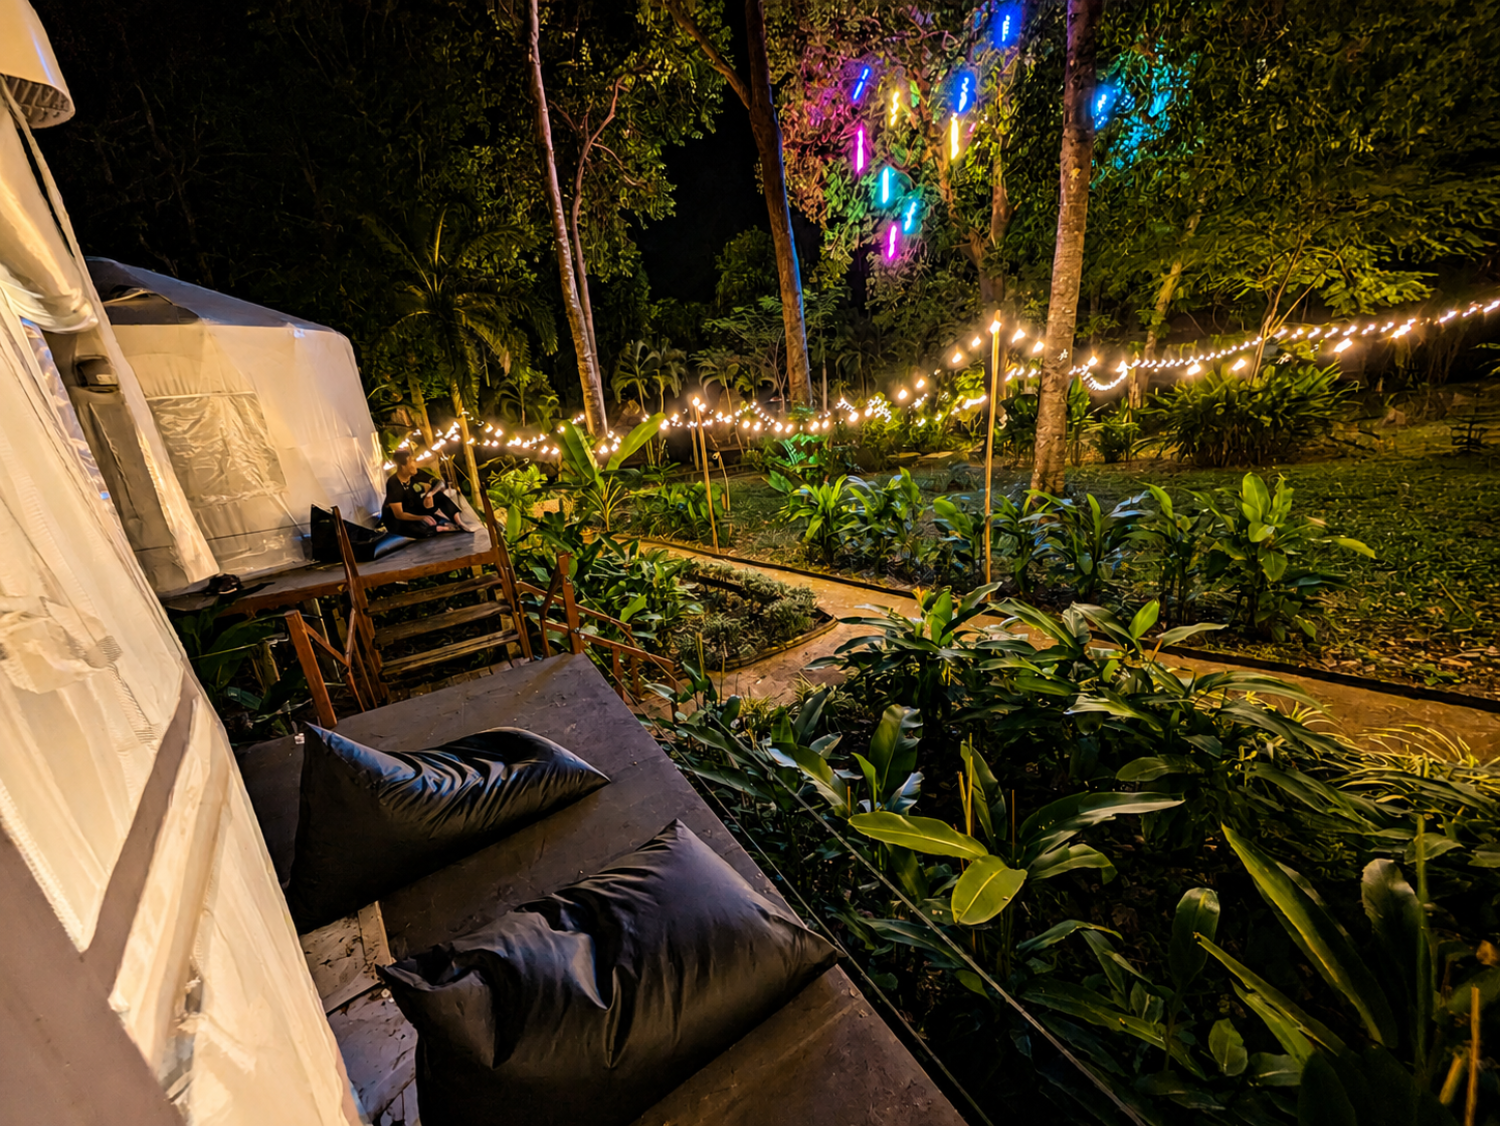
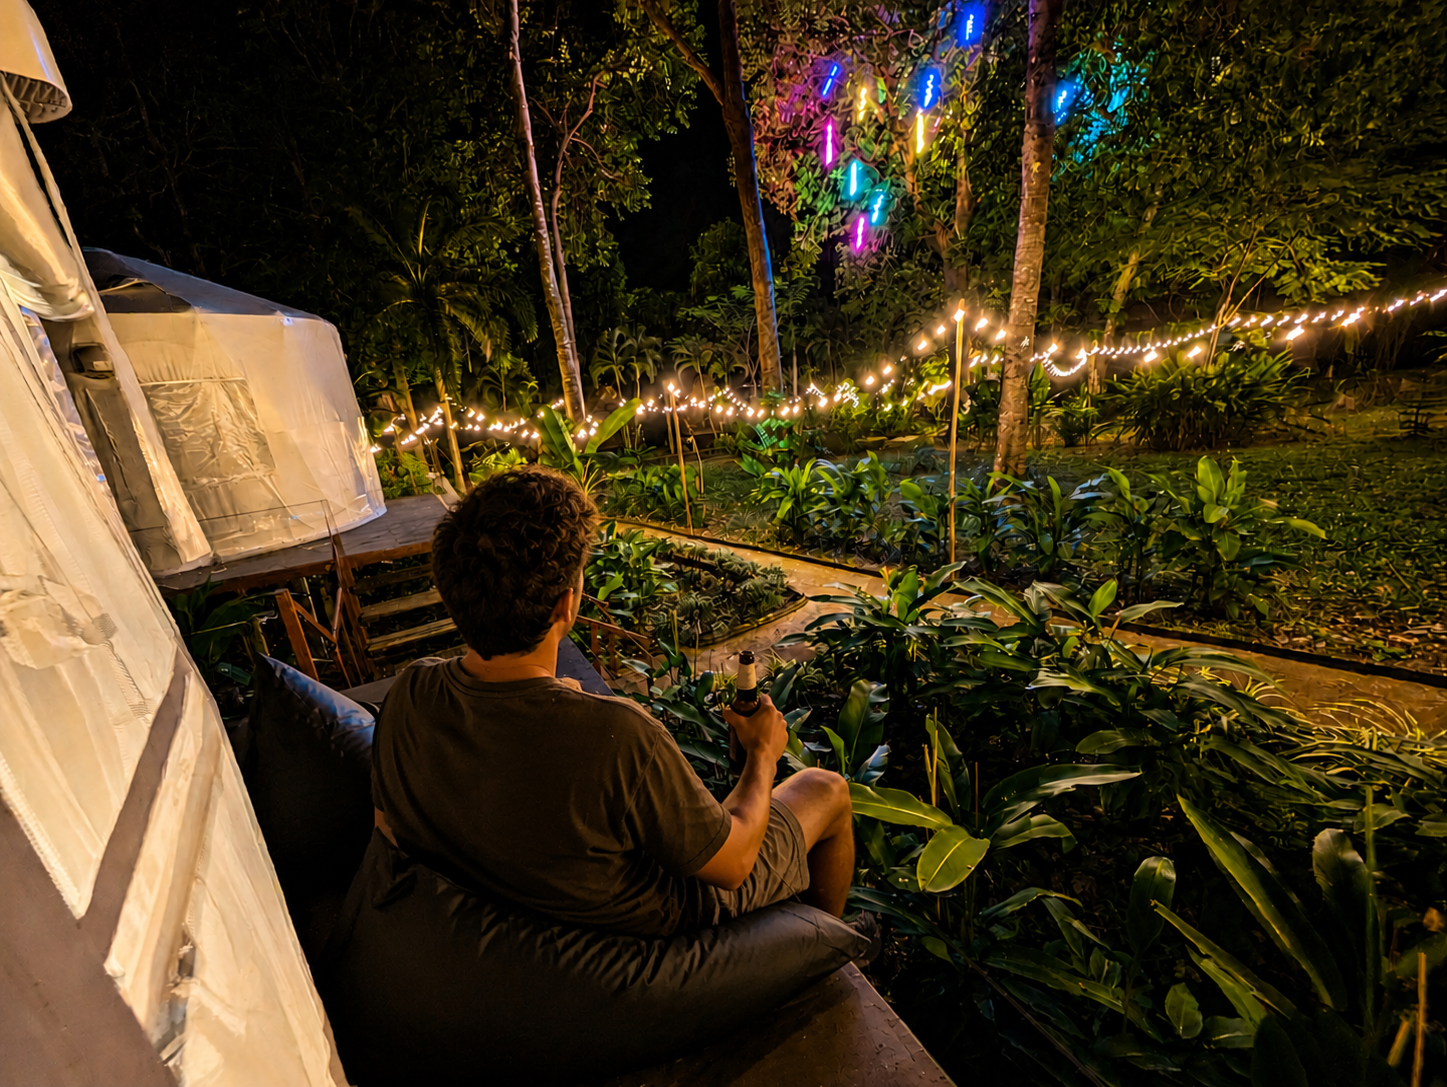
...

diff --git a/villa.html b/villa.html
@@ -627,7 +627,7 @@ body {
 <div class="vr-room-for__visual">
 <figure class="vr-room-for__media">
 <div class="vr-room-for__image-frame">
-<img alt="Guest looking through the panoramic window of a Garden Villa at Vanara Eco Resort" class="vr-room-for__image" decoding="async" height="1400" loading="lazy" src="/assets/img/villa6.png" width="1050"/>
+<img alt="Guest looking through the panoramic window of a Garden Villa at Vanara Eco Resort" class="vr-room-for__image" decoding="async" height="1400" loading="lazy" src="/assets/img/padre_figlio.png" width="1050"/>
 </div>
 <figcaption class="vr-room-for__caption">
 <span>Living above the garden</span>